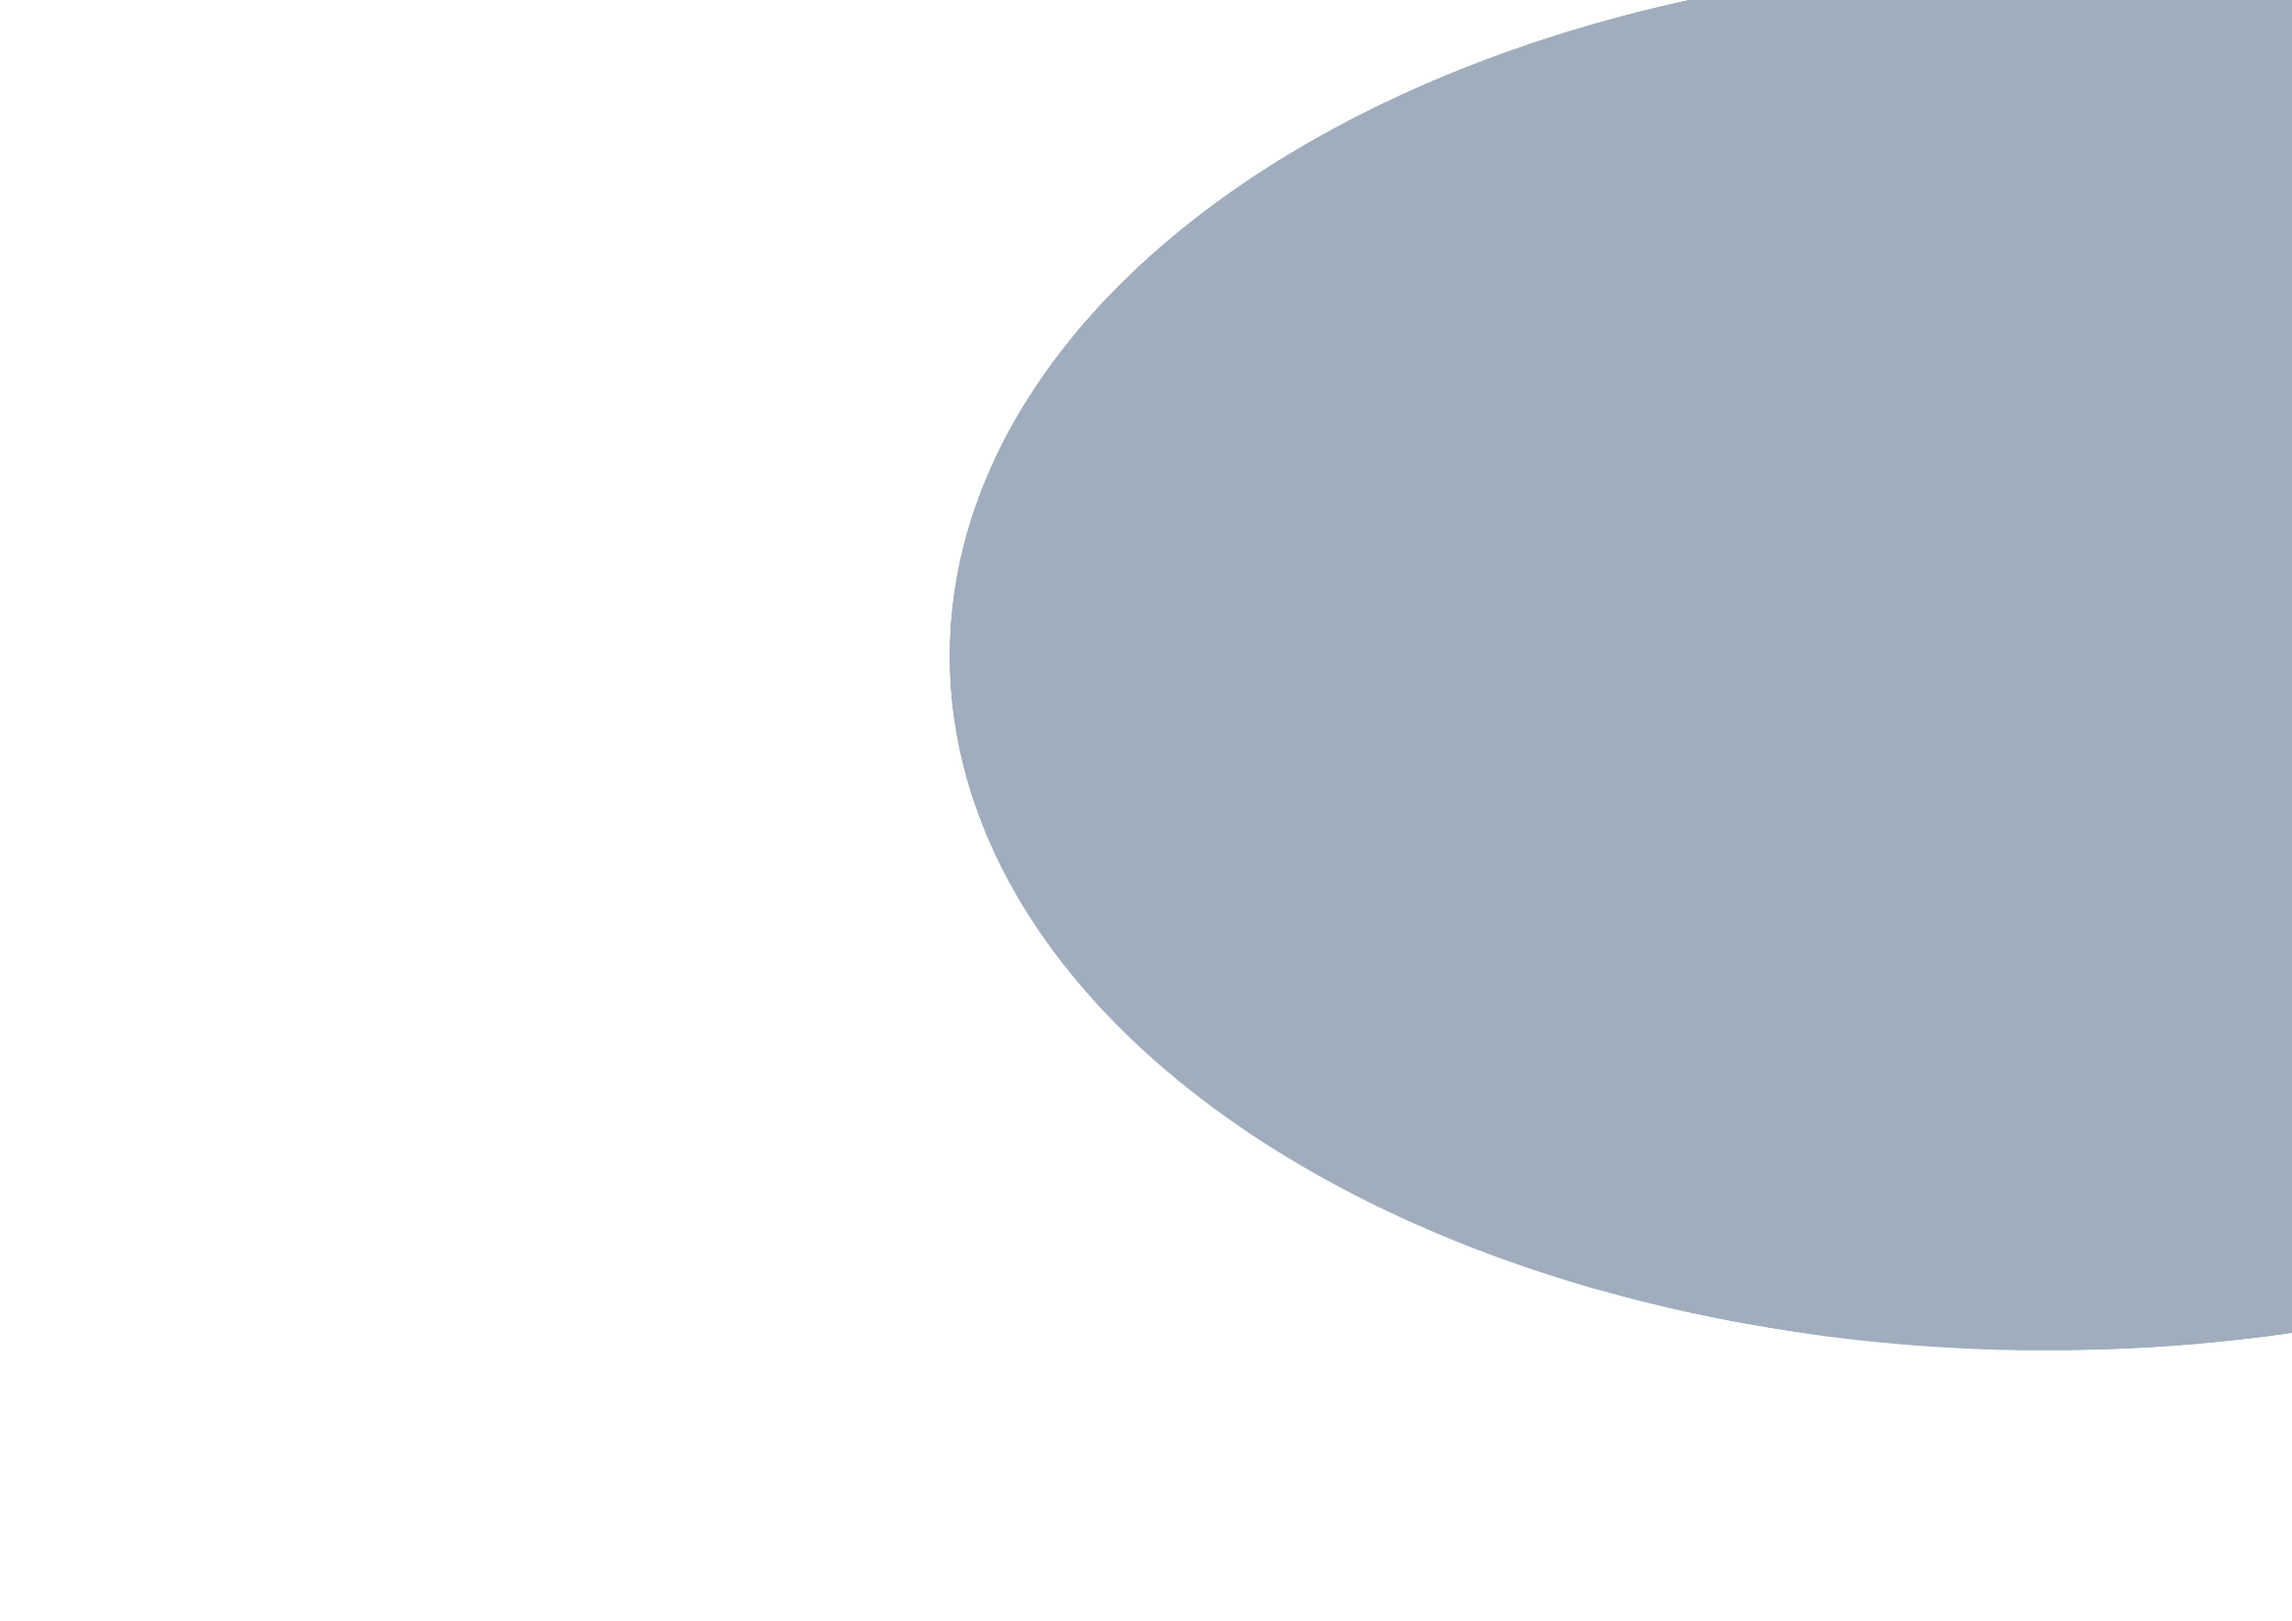
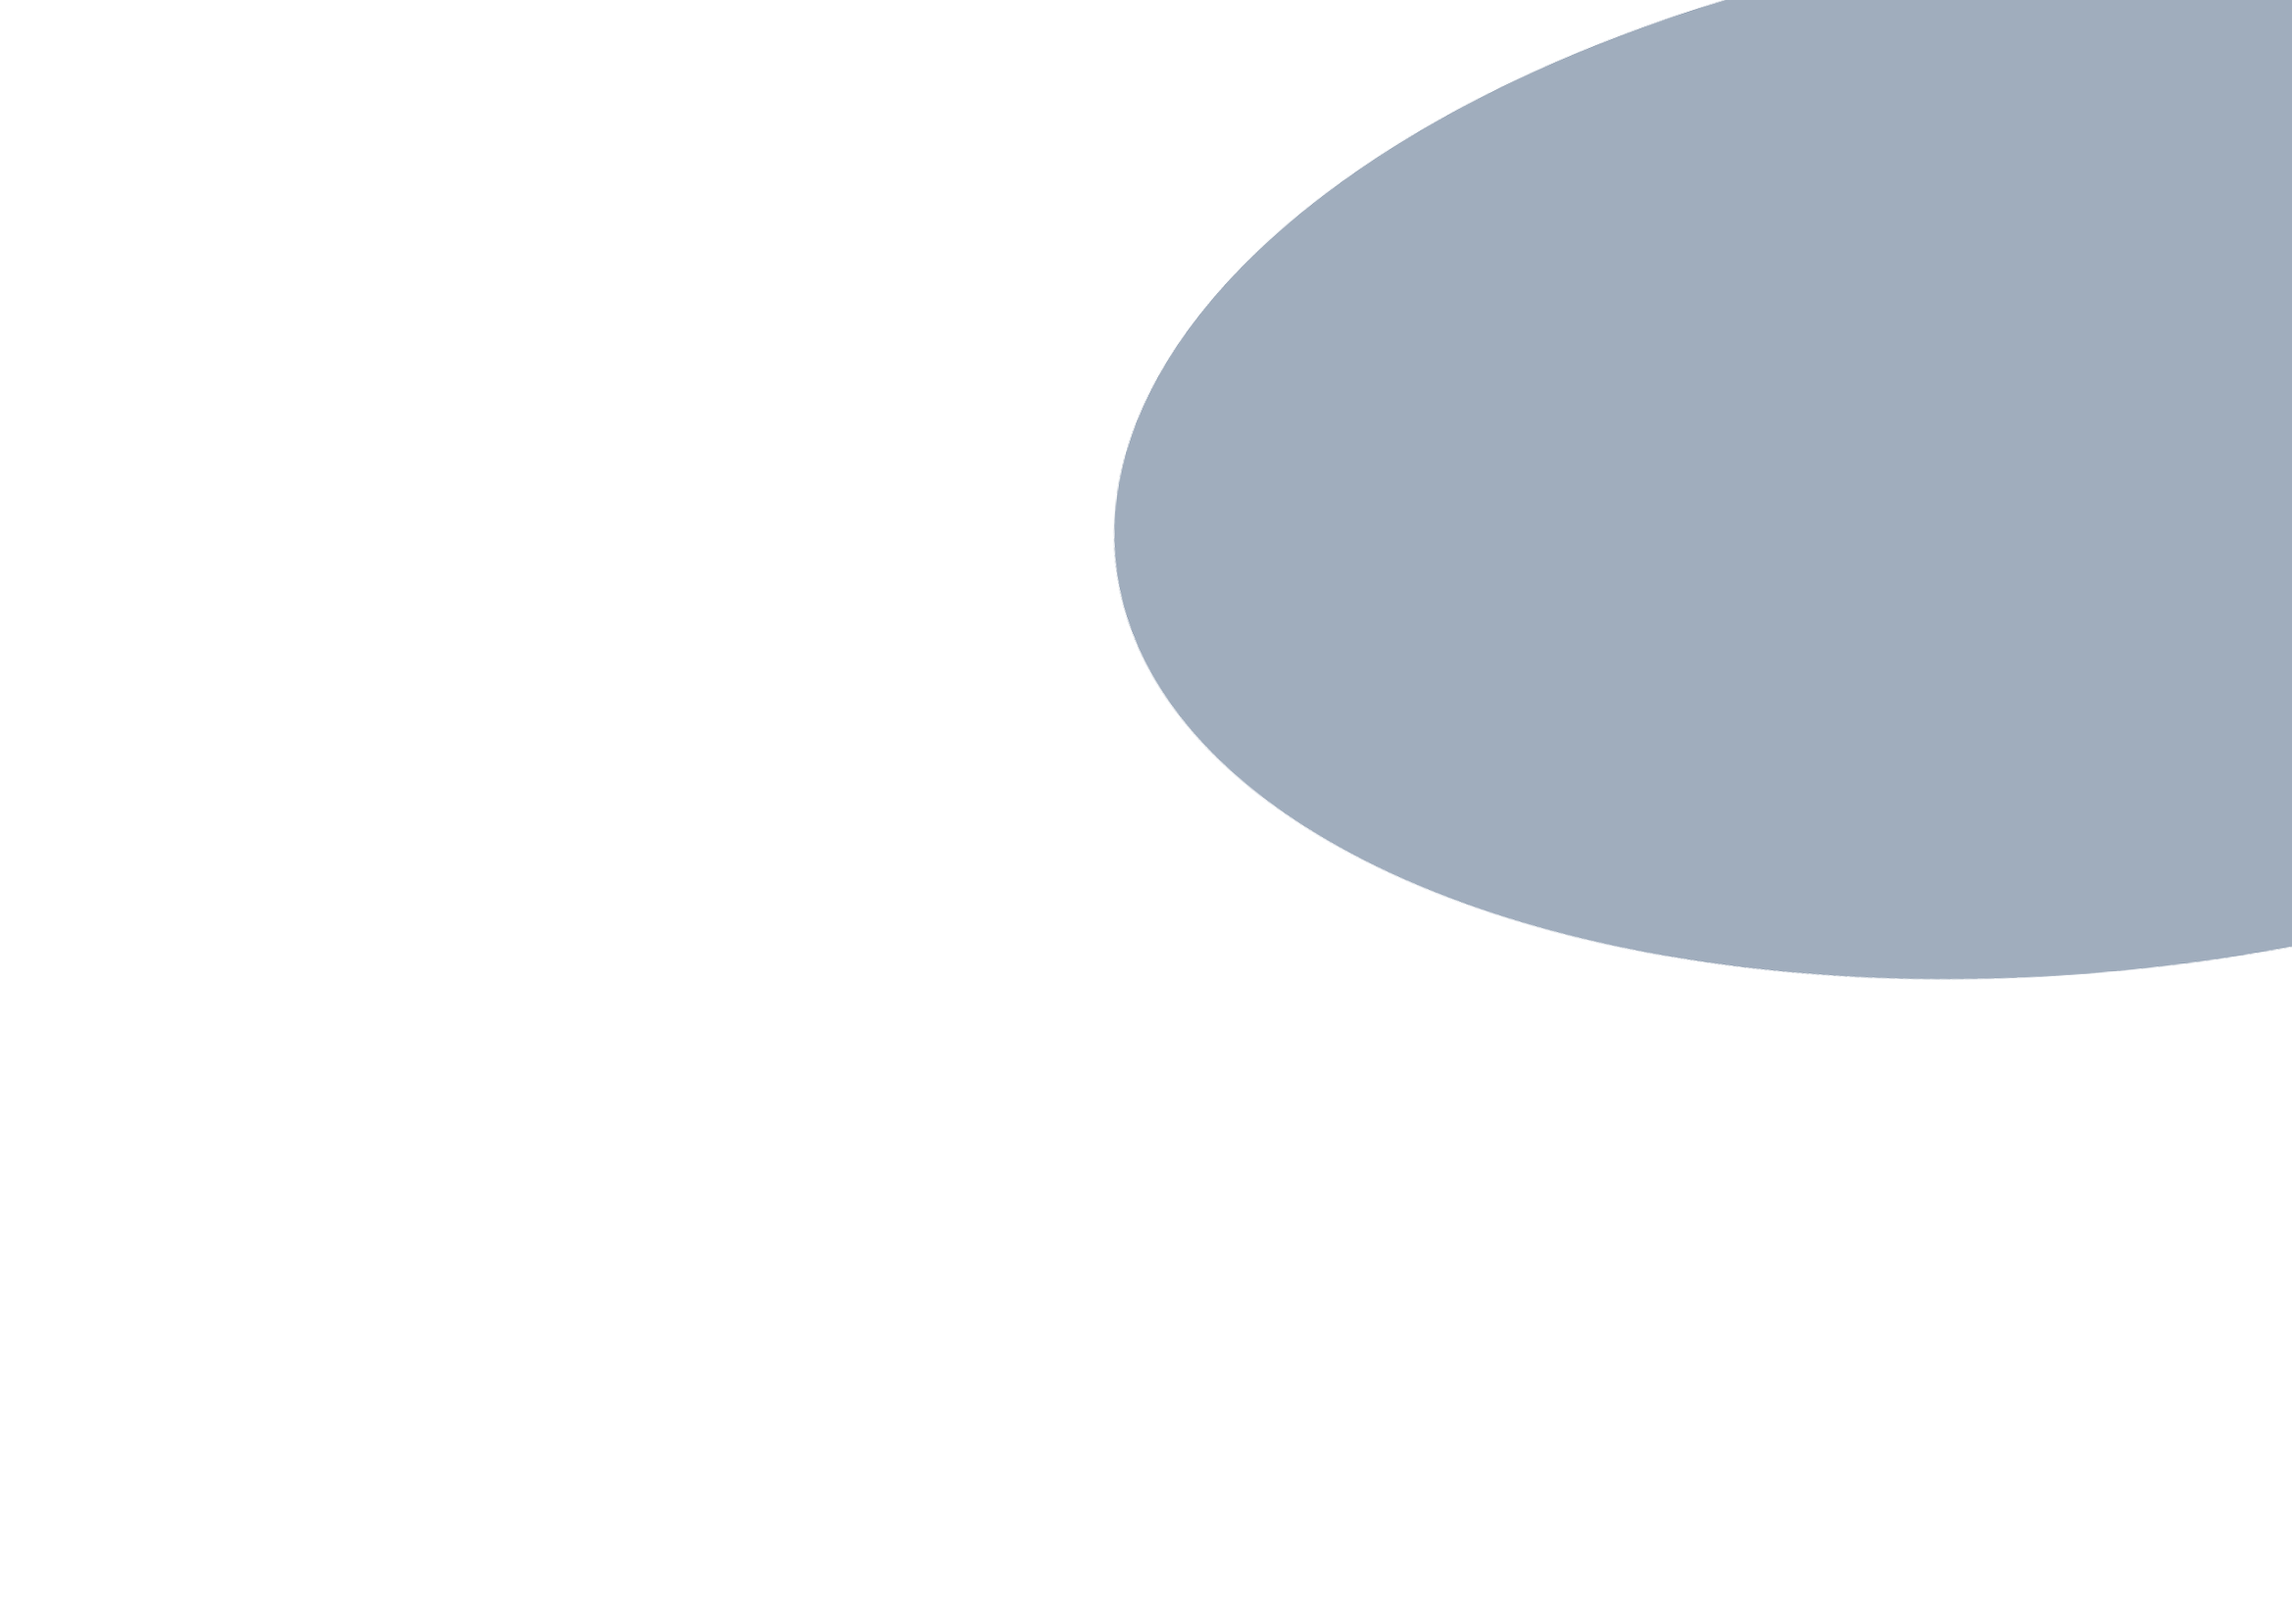
Background changes

Changed region(s): [[0.4057, 0.0, 1.0, 0.8325]]

diff --git a/rentcars/src/components/Inputs/InputConteiner.tsx b/rentcars/src/components/Inputs/InputConteiner.tsx
@@ -24,13 +24,14 @@ const InputContainer = () => {
             type="text" 
             placeholder="Local" // Colocando placeholder vazio
             style={{ 
-              flex: '2', 
+              flex: '7', 
               height: '40px', 
               padding: '10px', 
               fontSize: '16px', 
               borderRadius: '5px', 
               border: 'none', 
               marginRight: '5px', 
+              outline: 'none',
             }} 
           />
           <label style={{ position: 'absolute', top: '-20px', left: '0', fontSize: '15px', color: '#666' }}>Choose a location</label>
@@ -48,6 +49,7 @@ const InputContainer = () => {
               borderRadius: '5px', 
               border: 'none', 
               marginRight: '5px', 
+              outline: 'none',
             }} 
           />
           <label style={{ position: 'absolute', top: '-20px', left: '0', fontSize: '15px', color: '#666' }}>Pick up data</label>
@@ -61,9 +63,10 @@ const InputContainer = () => {
               fontSize: '16px', 
               borderRadius: '5px', 
               border: 'none', 
+              outline: 'none',
             }} 
           />
-          <label style={{ position: 'absolute', top: '-20px', left: '50%', fontSize: '15px', color: '#666', transform: 'translateX(-50%)' }}>Return data</label>
+          <label style={{ position: 'absolute', top: '-20px', left: '60%', fontSize: '15px', color: '#666', transform: 'translateX(-50%)' }}>Return data</label>
         </div>
       </div>
       <button 

diff --git a/rentcars/src/index.css b/rentcars/src/index.css
@@ -13,17 +13,23 @@
   -moz-osx-font-smoothing: grayscale;
 }
 
-
 body {
-  margin: 0; /* Remove as margens padrão do corpo */
-  padding: 0; /* Remove o preenchimento padrão do corpo */
-  font-family: Arial, sans-serif; /* Define a família de fontes padrão */
+  margin: 0; 
+  padding: 0; 
+  font-family: Arial, sans-serif; 
 
-  /* Define a imagem de fundo */
-  background-image: url('../src/assets/background1.png'); /* Substitua 'nome-da-imagem.jpg' pelo nome da sua imagem */
-  background-size: cover; /* Ajusta o tamanho da imagem para cobrir todo o container */
-  background-position: top; /* Posiciona a imagem no topo do container */
-  background-repeat: no-repeat; /* Evita a repetição da imagem de fundo */
+  background-image: 
+    url('../src/assets/car.png'),
+    url('../src/assets/background1.png'); 
+  background-size: 
+    1112px 695px,/* Largura e altura da segunda imagem */
+    cover; 
+  background-position: 
+    right,
+    top; 
+  background-repeat: 
+    no-repeat,
+    no-repeat; 
 }
 
 input {

diff --git a/rentcars/src/App.tsx b/rentcars/src/App.tsx
@@ -10,18 +10,11 @@ function App() {
     <div>
       <Navbar />
       <div style={{ paddingTop: '60px' }}>
-          <h1>Olá projeto</h1>
-      </div>
-      <div style={{ display: 'flex', paddingTop: '540px' }}>
-      <BackgroundContainer>
-        {/* Conteúdo do BackgroundContainer */}
-      </BackgroundContainer>
       <InfoContainer>
-        {/* Conteúdo do InfoContainer */}
       </InfoContainer>
       </div>
-      <InputContainer/>
-      <div>
+      <div style={{ display: 'flex', paddingTop: '540px' }}>
+        <InputContainer/>
       </div>
     </div>
   )

diff --git a/rentcars/src/components/infos/InfoContainer.tsx b/rentcars/src/components/infos/InfoContainer.tsx
@@ -2,7 +2,9 @@
 const InfoContainer = () => {
   return (
     <div>
-
+        <h6>-Welcome</h6>
+        <h1>Rent the best quality car's</h1>
+        <p>Lorem ipsum dolor sit amet consectetur adipisicing elit. Est iste ea pariatur odit modi excepturi accusamus. Quaerat, ullam! Impedit cupiditate aliquam voluptatibus, ipsam similique voluptatum ipsa nobis enim non corporis.</p>
     </div>
   );
 }
